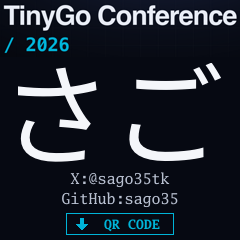
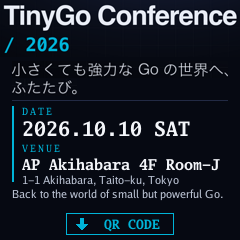
gocon2026badge: 起動時の LED 明滅を追加し名札画像を更新
- 電源投入直後に基板上の WS2812 (GPIO16) を Go ブルーで約 1 秒明滅させる
  ledStartupGlow を追加 (リングの PIO0 とは別に PIO1 を使用)
- 名札画像 (nametag.png / nametag.rgb565) を更新し、字形の元画像
  nametag_src.png を削除
- A ボタンのタイムテーブル画面遷移を無効化 (Go Conference 2026 用のため)
- smoketest に gocon2026badge のビルドを追加

Changed region(s): [[0.0292, 0.2625, 0.9625, 0.875], [0.6417, 0.4958, 0.8167, 0.5833], [0.0292, 0.4375, 0.0583, 0.7583]]

diff --git a/gocon2026badge/firmware/leds.go b/gocon2026badge/firmware/leds.go
@@ -1,5 +1,13 @@
 package main
 
+import (
+	"machine"
+	"time"
+
+	pio "github.com/tinygo-org/pio/rp2-pio"
+	"github.com/tinygo-org/pio/rp2-pio/piolib"
+)
+
 // モードごとの LED リング演出。メインループの奇数ティック (33ms 周期) で
 // いずれかを呼んでから writeColors する。
 
@@ -70,4 +78,30 @@ func ledRainbow() {
 		r, g, b := hsvToRGB(h, 255, 20)
 		ledBuffer[i] = toGGRRBBAA(g, r, b, 0xFF)
 	}
+}
+
+// ledStartupGlow は電源投入直後に 1 回だけ、RP2040-Zero 基板上の WS2812
+// (GPIO16) を Go ブルーで約 1 秒かけてやさしく明滅させる。
+// リング (PIO0) とは別に PIO1 のステートマシンを使う
+func ledStartupGlow() error {
+	sm, err := pio.PIO1.ClaimStateMachine()
+	if err != nil {
+		return err
+	}
+	ws, err := piolib.NewWS2812B(sm, machine.GPIO16)
+	if err != nil {
+		return err
+	}
+	const steps = 30 // 30 x 33ms ≈ 1 秒
+	for i := 0; i <= steps; i++ {
+		// 三角波を 2 乗して立ち上がり・立ち下がりを滑らかにする
+		t := i
+		if t > steps/2 {
+			t = steps - t
+		}
+		b := uint8(0x18 * t * t / (steps / 2 * steps / 2))
+		ws.PutRGB(0, b*3/4, b)
+		time.Sleep(33 * time.Millisecond)
+	}
+	return nil
 }

diff --git a/gocon2026badge/firmware/main.go b/gocon2026badge/firmware/main.go
@@ -108,6 +108,10 @@ func run() error {
 	}
 	writeColors(s, ws, wsLeds[:])
 
+	err = ledStartupGlow()
+	if err != nil {
+		return err
+	}
 	initBadgeLEDs()
 
 	// パネルの自走リフレッシュ (約 60Hz) に合わせた 1/60 秒ティック。
@@ -207,10 +211,8 @@ func run() error {
 
 					switch screen {
 					case screenBadge:
+						// A のタイムテーブル画面は Go Conference 2026 用だったので無効化
 						switch i {
-						case 0: // A: タイムテーブル画面へ
-							screen = screenTimetable
-							enterTimetable()
 						case 1, 3: // U (B は現行ハードに無い): ブロック崩し画面へ
 							screen = screenBreakout
 							bkInit()

diff --git a/gocon2026badge/firmware/nametag.go b/gocon2026badge/firmware/nametag.go
@@ -7,7 +7,7 @@ import (
 )
 
 // 名札画面と QR コード画面。画像は PC 側でレンダリングした RGB565(BE) raw を
-// 焼き込む (元 PNG は firmware 直下の nametag.png, qrcode.png, 名前の字形は nametag_src.png)。
+// 焼き込む (元 PNG は firmware 直下の nametag.png, qrcode.png)。
 
 //go:embed images/nametag.rgb565
 var nametagImg string
